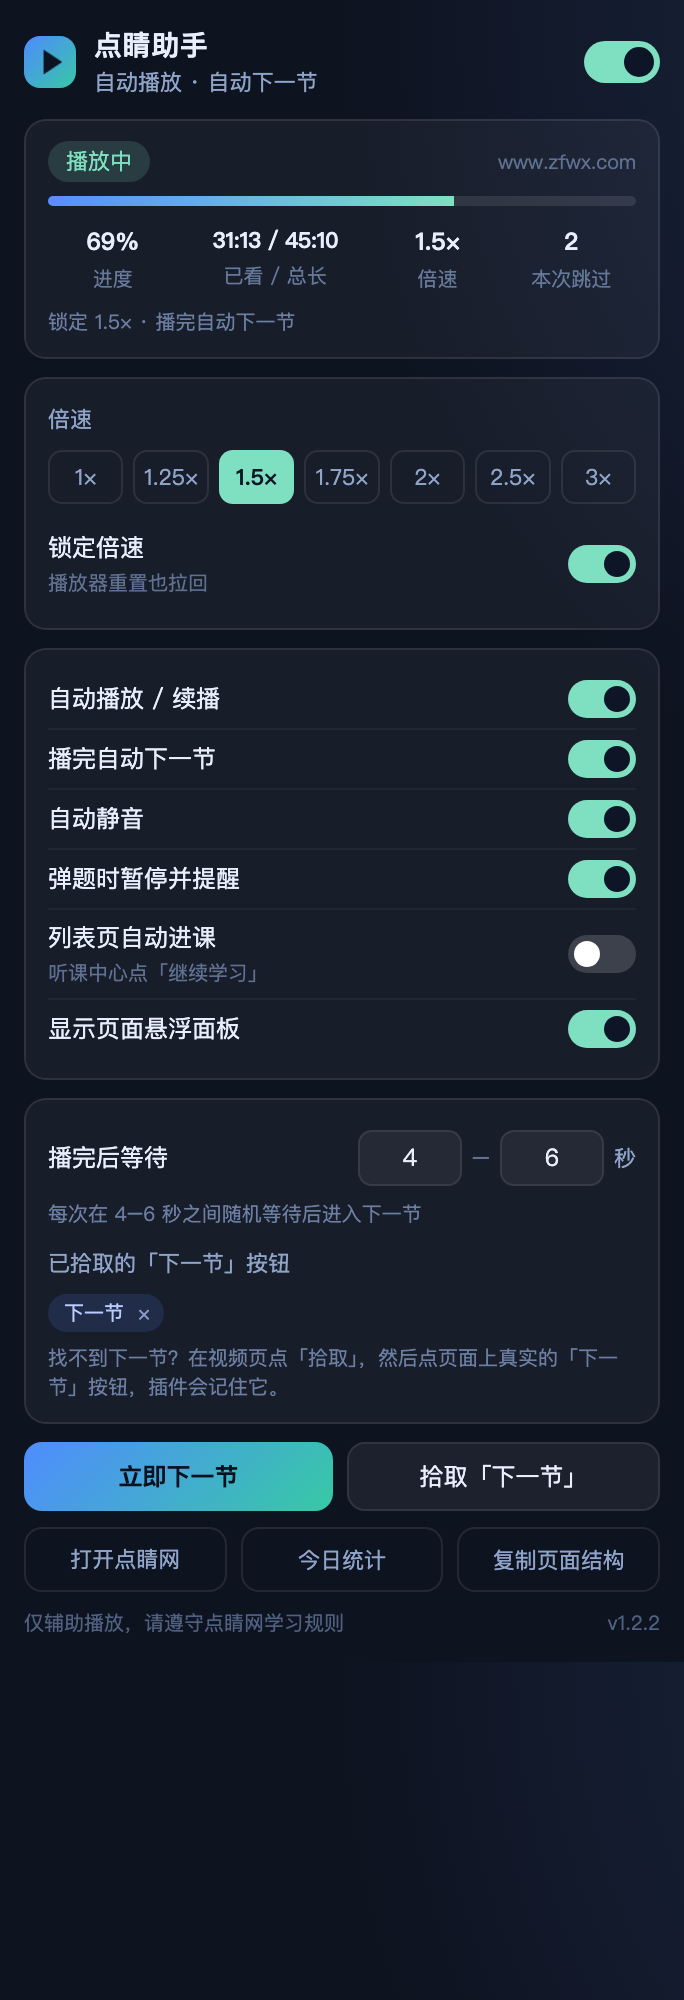
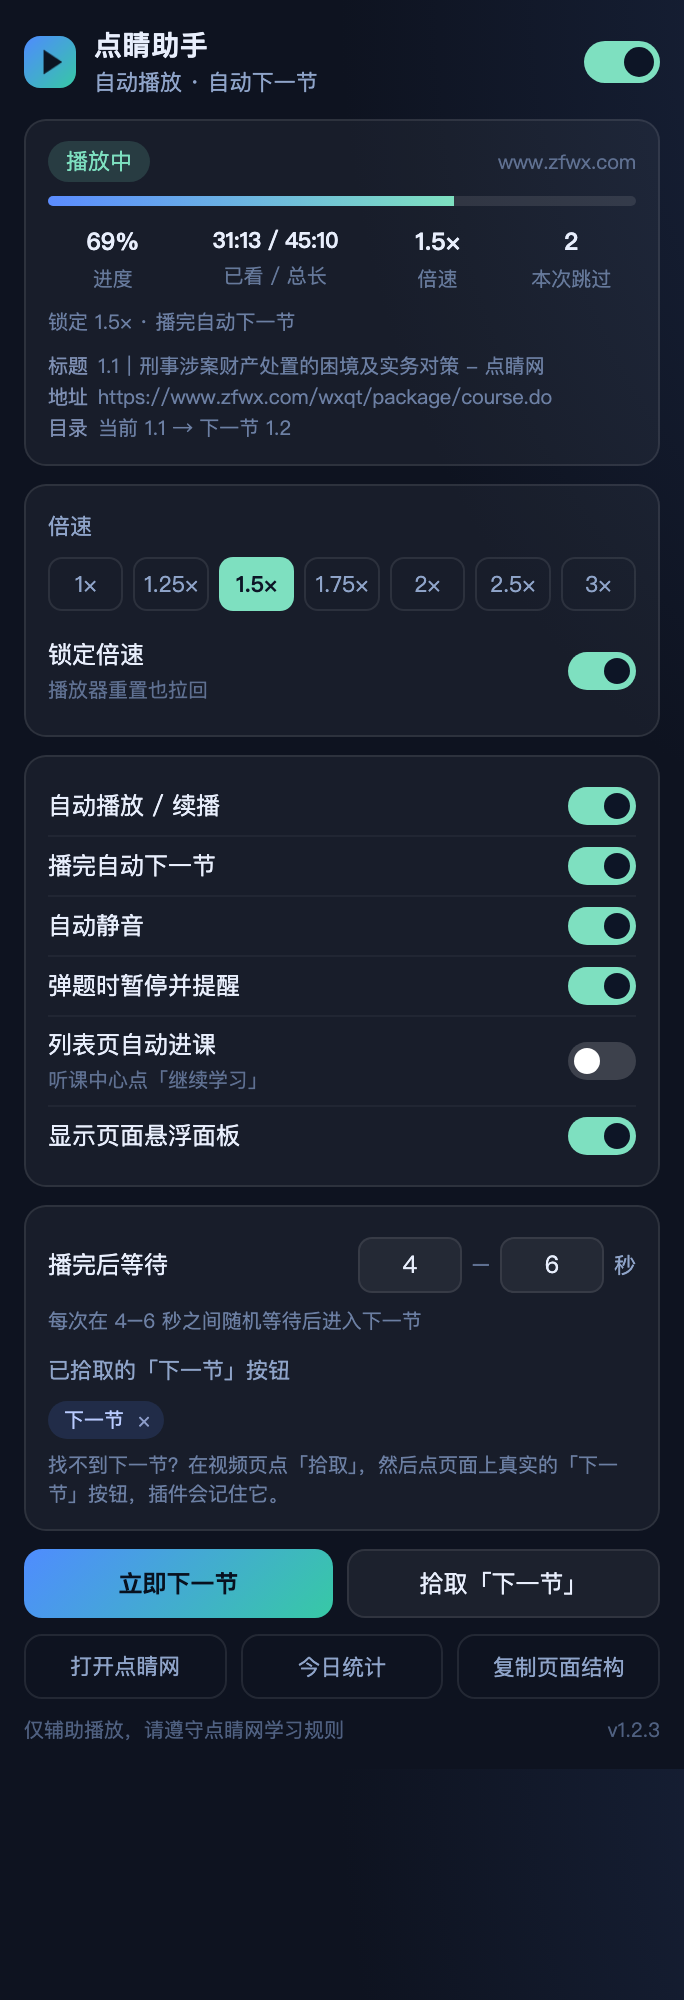
feat: 展示识别的标题/URL/目录，并支持折叠章节两步点击（v1.2.3）
- 面板与弹窗状态卡新增「标题 / 地址 / 目录（当前 x → 下一节 y）」，便于和页面比对
- snapshot 增加 title / catalogCur / catalogNext 字段
- 折叠章节：先点 h3.courseName 展开，900ms 后点该章第一条小节
- 目录懒加载：滚到底触发加载后重试
- 测试新增折叠两步点击与识别结果用例（共 45 项断言）

diff --git a/src/content.js b/src/content.js
@@ -9,7 +9,7 @@
   if (window.__DJZK_LOADED__) return;
   window.__DJZK_LOADED__ = true;
 
-  const VERSION = '1.2.2';
+  const VERSION = '1.2.3';
   const HOST_OK = (/(^|\.)zfwx\.com$/i.test(location.hostname) ||
     /(^|\.)dianjingyun\.com$/i.test(location.hostname)) ||
     location.hostname === 'localhost' || window.__DJZK_FORCE__ === true;
@@ -268,11 +268,9 @@
     const box = document.querySelector('.play_playerMLBox');
     if (!box) return null;
     const onCls = (el) => /(^|\s)on(\s|$)/.test(String((el && el.className) || ''));
-    const labelOfRow = (el) => {
-      const m = LESSON_LABEL.exec(String((el && el.textContent) || ''));
-      return m ? m[1] + '.' + m[2] : '';
-    };
+    const labelOfRow = lessonLabelText;
     const headOf = (item) => (item && (item.querySelector('h3.courseName a') || item.querySelector('h3.courseName'))) || null;
+    const firstRowOf = (item) => item && (item.querySelector('.rightCatalogList li p.name') || item.querySelector('.rightCatalogList li'));
     const rows = [...box.querySelectorAll('.rightCatalogList li')];
 
     let cur = rows.findIndex((li) => onCls(li) || li.getAttribute('data-status') === 'bofang');
@@ -281,6 +279,7 @@
       if (label) cur = rows.findIndex((li) => { const l = lessonLabelOf(li); return l && cmpLabel(l, label) === 0; });
     }
     if (cur < 0) return null;
+    const curLabel = labelOfRow(rows[cur]);
 
     /* 同一章内还有下一条小节 */
     if (cur < rows.length - 1) {
@@ -288,10 +287,11 @@
       const label = labelOfRow(next);
       if (isVisible(next)) {
         const row = next.querySelector('p.name') || next.querySelector('a') || next;
-        return { el: row, label: label || labelOfRow(row) };
+        return { el: row, label: label || labelOfRow(row), cur: curLabel };
       }
-      const head = headOf(next.closest('.courseItem'));
-      if (head) return { el: head, label: label };
+      const item = next.closest('.courseItem');
+      const head = headOf(item);
+      if (head) return { el: head, label: label, cur: curLabel, then: () => firstRowOf(item) };
     }
 
     /* 本章最后一条：点下一个 courseItem 的标题 */
@@ -300,8 +300,16 @@
     if (ci >= 0 && ci < items.length - 1) {
       const nx = items[ci + 1];
       const head = headOf(nx);
-      if (head) return { el: head, label: labelOfRow(nx.querySelector('h3.courseName') || nx) };
+      const label = labelOfRow(nx.querySelector('h3.courseName') || nx);
+      if (head) {
+        const row = firstRowOf(nx);
+        if (row && isVisible(row)) return { el: row, label: label, cur: curLabel };
+        return { el: head, label: label, cur: curLabel, then: () => firstRowOf(nx) };
+      }
     }
+
+    /* 目录可能懒加载：滚到底触发一次请求，下次 tick 再看 */
+    nudgeCatalogLoad(box);
     return null;
   }
 
@@ -319,6 +327,11 @@
   }
 
   function cmpLabel(a, b) { return (a[0] - b[0]) || (a[1] - b[1]); }
+
+  function lessonLabelText(el) {
+    const m = LESSON_LABEL.exec(String((el && el.textContent) || ''));
+    return m ? m[1] + '.' + m[2] : '';
+  }
 
   function activeLessonLabel() {
     const sel = '[class*="active"],[class*="current"],[class*="playing"],[aria-current]';
@@ -387,7 +400,41 @@
     const idx = items.findIndex((it) => cmpLabel(it.label, cur) === 0);
     if (idx < 0 || idx === items.length - 1) return null;
     const nxt = items[idx + 1];
-    return { el: nxt.el, label: nxt.label.join('.') };
+    return { el: nxt.el, label: nxt.label.join('.'), cur: items[idx].label.join('.') };
+  }
+
+  /* 目录是懒加载时，滚到底触发加载 */
+  function nudgeCatalogLoad(box) {
+    try {
+      const list = ['.rightCatalogBox', '.play_playerCont', '.play_playerMLBox'];
+      for (const sel of list) {
+        const el = box.querySelector(sel) || (sel === '.play_playerMLBox' ? box : null);
+        if (!el) continue;
+        if (el.scrollHeight > el.clientHeight + 20) {
+          el.scrollTop = el.scrollHeight;
+          el.dispatchEvent(new Event('scroll', { bubbles: true }));
+          return true;
+        }
+      }
+    } catch (e) { /* ignore */ }
+    return false;
+  }
+
+  /* 只读：当前节 / 下一节，用于面板与弹窗展示「识别结果」 */
+  function catalogPeek() {
+    try {
+      const box = document.querySelector('.play_playerMLBox');
+      if (box) {
+        const zf = zfwxCatalogNext();
+        const rows = [...box.querySelectorAll('.rightCatalogList li')];
+        const cur = rows.find((li) => /(^|\s)on(\s|$)/.test(String(li.className || '')) || li.getAttribute('data-status') === 'bofang');
+        return { cur: cur ? lessonLabelText(cur) : '', next: (zf && zf.label) || '' };
+      }
+      const g = catalogNext();
+      return { cur: (pageLessonLabel() || []).join('.'), next: (g && g.label) || '' };
+    } catch (e) {
+      return { cur: '', next: '' };
+    }
   }
 
   /* ------------------------- 下一节 ------------------------- */
@@ -408,7 +455,7 @@
     /* 点睛网播放页的右侧目录（真实结构），优先级仅次于手动拾取 */
     try {
       const zf = zfwxCatalogNext();
-      if (zf && zf.el) out.push({ el: zf.el, pri: -6, tag: '目录 ' + (zf.label || '下一节') });
+      if (zf && zf.el) out.push({ el: zf.el, pri: -6, tag: '目录 ' + (zf.label || '下一节'), then: zf.then });
     } catch (e) { /* ignore */ }
 
     /* 其他站点的通用目录模式 */
@@ -444,9 +491,23 @@
       return false;
     }
     nextTries += 1;
-    const target = cands[0].el;
-    msg = '点击下一节：' + (cands[0].tag || target.tagName.toLowerCase());
+    const cand = cands[0];
+    const target = cand.el;
+    msg = '点击下一节：' + (cand.tag || target.tagName.toLowerCase());
     clickEl(target);
+    /* 章节是折叠的：先点标题展开，再点小节 */
+    if (typeof cand.then === 'function') {
+      setTimeout(() => {
+        try {
+          const el = cand.then();
+          if (el && el.isConnected) {
+            msg = '已展开章节，正在点小节';
+            clickEl(el);
+            report(true);
+          }
+        } catch (e) { /* ignore */ }
+      }, 900);
+    }
     if (countedSig !== videoSig && videoSig) {
       countedSig = videoSig;
       lessonsDone += 1;
@@ -596,6 +657,7 @@
 
   function snapshotLocal() {
     const v = video && video.isConnected ? video : pickVideo();
+    const peek = catalogPeek();
     const cur = v ? (v.currentTime || 0) : 0;
     const dur = v ? (isFinite(v.duration) ? v.duration : 0) : 0;
     return {
@@ -603,6 +665,9 @@
       top: IS_TOP,
       href: location.href,
       host: location.hostname,
+      title: String(document.title || '').slice(0, 140),
+      catalogCur: peek.cur,
+      catalogNext: peek.next,
       hasVideo: !!v,
       playing: !!(v && !v.paused && !v.ended),
       ended: !!(v && v.ended),
@@ -691,6 +756,10 @@
         .bar{height:5px;border-radius:99px;background:rgba(255,255,255,.12);overflow:hidden;margin:2px 0 8px}
         .bar i{display:block;height:100%;width:0;background:linear-gradient(90deg,#4f8cff,#7ee0c0);transition:width .4s}
         .msg{font-size:11px;color:#8fa4c9;min-height:30px;margin-bottom:6px;word-break:break-all}
+        .meta{font-size:10px;color:#6c7fa3;margin:0 0 8px}
+        .mrow{display:flex;gap:5px;line-height:1.55}
+        .mrow i{font-style:normal;flex:none;color:#7e8fb3}
+        .mrow span{flex:1;min-width:0;overflow:hidden;text-overflow:ellipsis;white-space:nowrap}
         .rowbtns{display:flex;gap:6px;margin-bottom:8px}
         button.b{flex:1;border:1px solid rgba(120,160,255,.3);background:rgba(80,120,255,.16);color:#dce7ff;
                  border-radius:8px;padding:5px 4px;cursor:pointer;font-size:11px;font-family:inherit}
@@ -717,6 +786,11 @@
           <div class="row"><span>进度</span><b data-f="pct">—</b></div>
           <div class="bar"><i data-f="bar"></i></div>
           <div class="msg" data-f="msg">初始化…</div>
+          <div class="meta">
+            <div class="mrow"><i>标题</i><span data-f="title">—</span></div>
+            <div class="mrow"><i>地址</i><span data-f="href">—</span></div>
+            <div class="mrow"><i>目录</i><span data-f="catalog">—</span></div>
+          </div>
           <div class="rowbtns">
             <button class="b" data-act="next">立即下一节</button>
             <button class="b" data-act="pick">拾取「下一节」</button>
@@ -765,6 +839,17 @@
         $('[data-f="bar"]').style.width = (st.hasVideo ? st.pct : 0) + '%';
         const m = st.msg || msg;
         $('[data-f="msg"]').textContent = st.nextIn > 0 ? m + '（' + st.nextIn + 's）' : m;
+        const tEl = $('[data-f="title"]');
+        tEl.textContent = st.title || '—';
+        tEl.title = st.title || '';
+        const hEl = $('[data-f="href"]');
+        hEl.textContent = st.href || '—';
+        hEl.title = st.href || '';
+        const cEl = $('[data-f="catalog"]');
+        const catText = [st.catalogCur && ('当前 ' + st.catalogCur), st.catalogNext && ('下一节 ' + st.catalogNext)]
+          .filter(Boolean).join(' → ');
+        cEl.textContent = catText || '—';
+        cEl.title = catText;
         $('[data-f="rate"]').textContent = fmtRate(st.rate || S.rate);
         $('[data-f="lessons"]').textContent = '本次 ' + lessonsDone + ' 节';
         $('.dot').classList.toggle('on', !!S.enabled);

diff --git a/src/popup.js b/src/popup.js
@@ -151,6 +151,7 @@ function renderState(rec) {
     $('#time').textContent = '00:00';
     $('#rateNow').textContent = fmtRate(settings.rate);
     $('#lessons').textContent = '0';
+    ['pgTitle', 'pgHref', 'pgCatalog'].forEach((id) => { const el = $('#' + id); el.textContent = '—'; el.title = ''; });
     $('#hint').textContent = tab && /^chrome-extension:/.test(tab.url)
       ? '这是设置页，打开点睛网听课页面即可看到实时状态。'
       : '当前页面没有运行脚本（可能不在点睛网，或需要刷新页面）。';
@@ -169,6 +170,15 @@ function renderState(rec) {
   else if (st.ended) setPill('已播完', 'warn');
   else if (st.playing) setPill('播放中', 'on');
   else setPill('已暂停', 'warn');
+
+  $('#pgTitle').textContent = st.title || '—';
+  $('#pgTitle').title = st.title || '';
+  $('#pgHref').textContent = st.href || '—';
+  $('#pgHref').title = st.href || '';
+  const cat = [st.catalogCur && ('当前 ' + st.catalogCur), st.catalogNext && ('下一节 ' + st.catalogNext)]
+    .filter(Boolean).join(' → ');
+  $('#pgCatalog').textContent = cat || '—';
+  $('#pgCatalog').title = cat;
 
   const parts = [];
   if (!st.enabled) parts.push('总开关已关闭');

diff --git a/src/popup.html b/src/popup.html
@@ -33,6 +33,11 @@
       <div><b id="lessons">0</b><span>本次跳过</span></div>
     </div>
     <div class="hint" id="hint">正在读取页面状态…</div>
+    <div class="pagemeta">
+      <div><i>标题</i><span id="pgTitle">—</span></div>
+      <div><i>地址</i><span id="pgHref">—</span></div>
+      <div><i>目录</i><span id="pgCatalog">—</span></div>
+    </div>
   </section>
 
   <section class="card">
@@ -89,7 +94,7 @@
 
   <footer>
     <span id="footNote">仅辅助播放，请遵守点睛网学习规则</span>
-    <span id="ver">v1.2.2</span>
+    <span id="ver">v1.2.3</span>
   </footer>
 
   <div class="toast" id="toast" hidden></div>

diff --git a/src/popup.css b/src/popup.css
@@ -66,6 +66,11 @@ header {
 
 .hint { font-size: 10px; color: #6c7fa3; margin-top: 6px; line-height: 1.45; }
 
+.pagemeta { margin-top: 7px; font-size: 10px; color: #6c7fa3; }
+.pagemeta > div { display: flex; gap: 5px; line-height: 1.55; }
+.pagemeta i { font-style: normal; color: #7e8fb3; flex: none; }
+.pagemeta span { flex: 1; min-width: 0; overflow: hidden; text-overflow: ellipsis; white-space: nowrap; }
+
 #diagText {
   width: 100%; height: 130px; margin: 2px 0 8px; padding: 7px 8px; resize: vertical;
   background: rgba(255, 255, 255, .04); border: 1px solid var(--line); border-radius: 8px;

diff --git a/tools/preview.py b/tools/preview.py
@@ -34,6 +34,8 @@ window.chrome = {
   runtime: {
     sendMessage: async () => ({ rec: { state: {
       hasVideo: true, playing: true, rate: 1.5, cur: 1873, dur: 2710, pct: 69,
+      title: '1.1｜刑事涉案财产处置的困境及实务对策 - 点睛网',
+      catalogCur: '1.1', catalogNext: '1.2',
       nextIn: 0, quiz: false, lessons: 2, enabled: true, host: 'www.zfwx.com',
       msg: '锁定 1.5× · 播完自动下一节', href: 'https://www.zfwx.com/wxqt/package/course.do'
     }, videoFrameId: 0 } })

diff --git a/README.md b/README.md
@@ -32,7 +32,17 @@
 1. **真实结构优先**：点睛网播放页的目录是 `.play_playerMLBox .courseItem`，章节标题 `h3.courseName`（形如 `1.1｜刑事涉案财产处置…`），下面 `ul.rightCatalogList > li.hasBuy` 是小节行；正在播放的带 `.on` / `data-status="bofang"`。插件直接找当前行的下一条 `li`（或下一个 `courseItem` 的标题）并点击，不依赖文案或猜测。
 2. **通用兜底**：其他布局下，从页面标题 / 面包屑 / 高亮小节（如「问题一」）推断节号，找目录里下一个节号；再不行才用「下一节/继续学习」文案扫描。
 
+**章节是折叠的**：如果下一章的列表还没展开，插件会先点章节标题把列表展开，约 0.9 秒后再点里面的第一条小节；目录是滚动懒加载时，还会先把目录容器滚到底触发加载，下一次检查再点。
+
 都不行时用**拾取**指定一次即可，手动拾取始终最优先。
+
+## 识别结果可视化
+
+悬浮面板和弹窗状态卡里都会显示插件「看到」的内容，方便和页面比对：
+
+- **标题**：`document.title`；
+- **地址**：当前页面 URL；
+- **目录**：`当前 1.1 → 下一节 1.2`（识别不出时显示 —）。
 
 ## 找不到「下一节」按钮？
 
